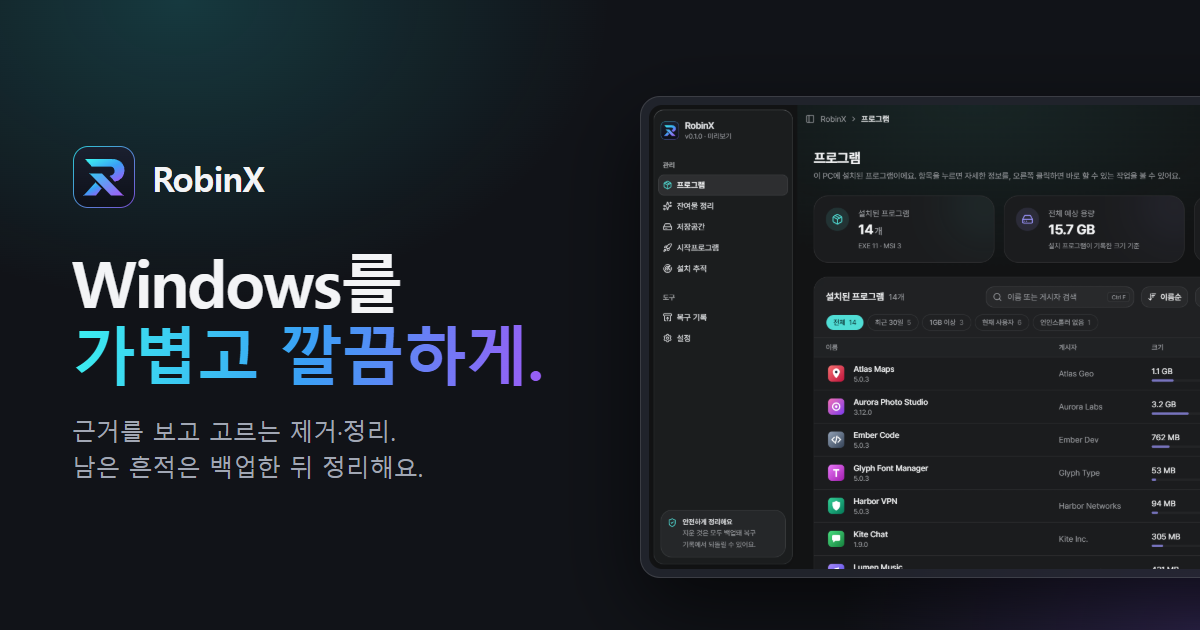
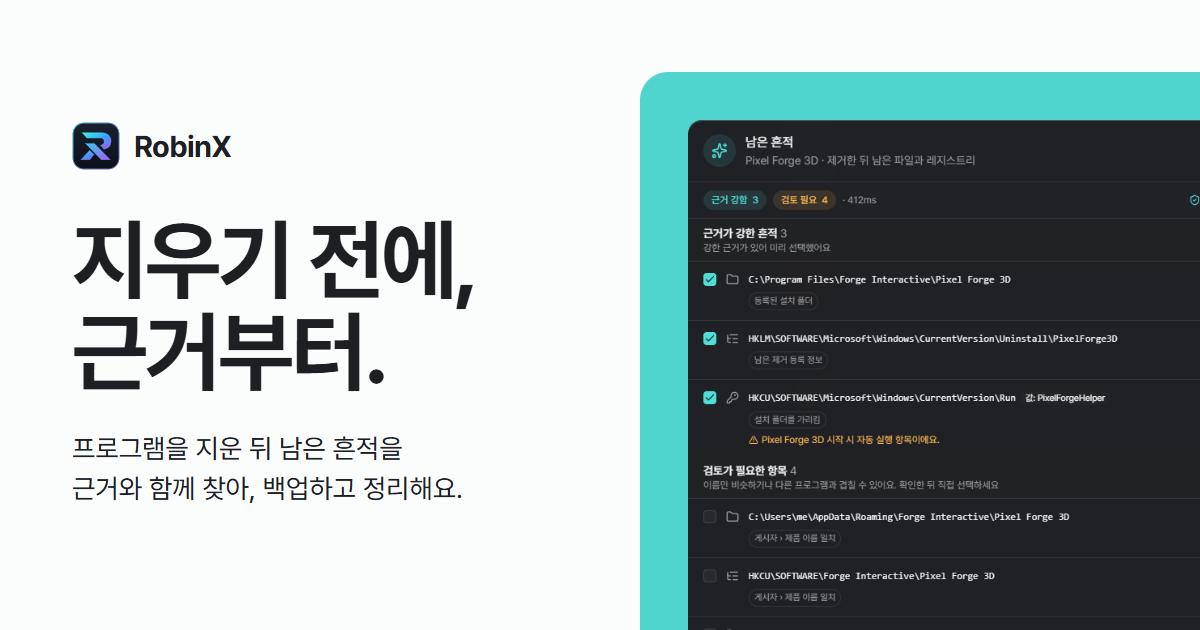
Regenerate the share image for the new site design
- og.png now mirrors the hero: light page, headline, leftovers screen on
  the teal stage; no gradients or shadows
- og.mjs embeds Pretendard as a data URI (file:// fonts did not load)
- og:image gets ?v=2 so social sites refetch; titles use the new headline

diff --git a/website/index.html b/website/index.html
@@ -6,19 +6,19 @@
     <link rel="icon" type="image/png" href="./logo.png" />
     <meta name="viewport" content="width=device-width, initial-scale=1.0" />
     <meta name="theme-color" content="#fcfcfd" />
-    <title>RobinX — Windows를 가볍고 깔끔하게</title>
+    <title>RobinX — 지우기 전에, 근거부터</title>
     <meta
       name="description"
       content="Windows를 가볍고 깔끔하게. 프로그램 제거와 남은 흔적 정리, 저장공간·시작프로그램 관리까지 한곳에서. 정리한 흔적은 백업해 두어 되돌릴 수 있어요."
     />
-    <meta property="og:title" content="RobinX — Windows를 가볍고 깔끔하게" />
+    <meta property="og:title" content="RobinX — 지우기 전에, 근거부터" />
     <meta property="og:description" content="제거·정리·관리를 한곳에서, 근거와 백업을 함께. Windows 올인원 관리 도구" />
     <meta property="og:type" content="website" />
     <meta property="og:url" content="https://yoon-robin.github.io/RobinX/" />
-    <meta property="og:image" content="https://yoon-robin.github.io/RobinX/og.png" />
+    <meta property="og:image" content="https://yoon-robin.github.io/RobinX/og.png?v=2" />
     <meta property="og:image:width" content="1200" />
     <meta property="og:image:height" content="630" />
-    <meta property="og:image:alt" content="RobinX — Windows를 가볍고 깔끔하게. 앱 화면 미리 보기" />
+    <meta property="og:image:alt" content="RobinX — 지우기 전에, 근거부터. 남은 흔적 화면 미리 보기" />
     <meta name="twitter:card" content="summary_large_image" />
     <link rel="canonical" href="https://yoon-robin.github.io/RobinX/" />
   </head>
@@ -34,7 +34,7 @@
           line-height: 1.6;
         "
       >
-        <h1>RobinX — Windows를 가볍고 깔끔하게</h1>
+        <h1>RobinX — 지우기 전에, 근거부터</h1>
         <p>
           프로그램 제거와 남은 흔적 정리, 저장공간·시작프로그램 관리를 한곳에서 하는 Windows 도구예요. 이 페이지는
           JavaScript가 켜져 있어야 보여요.
